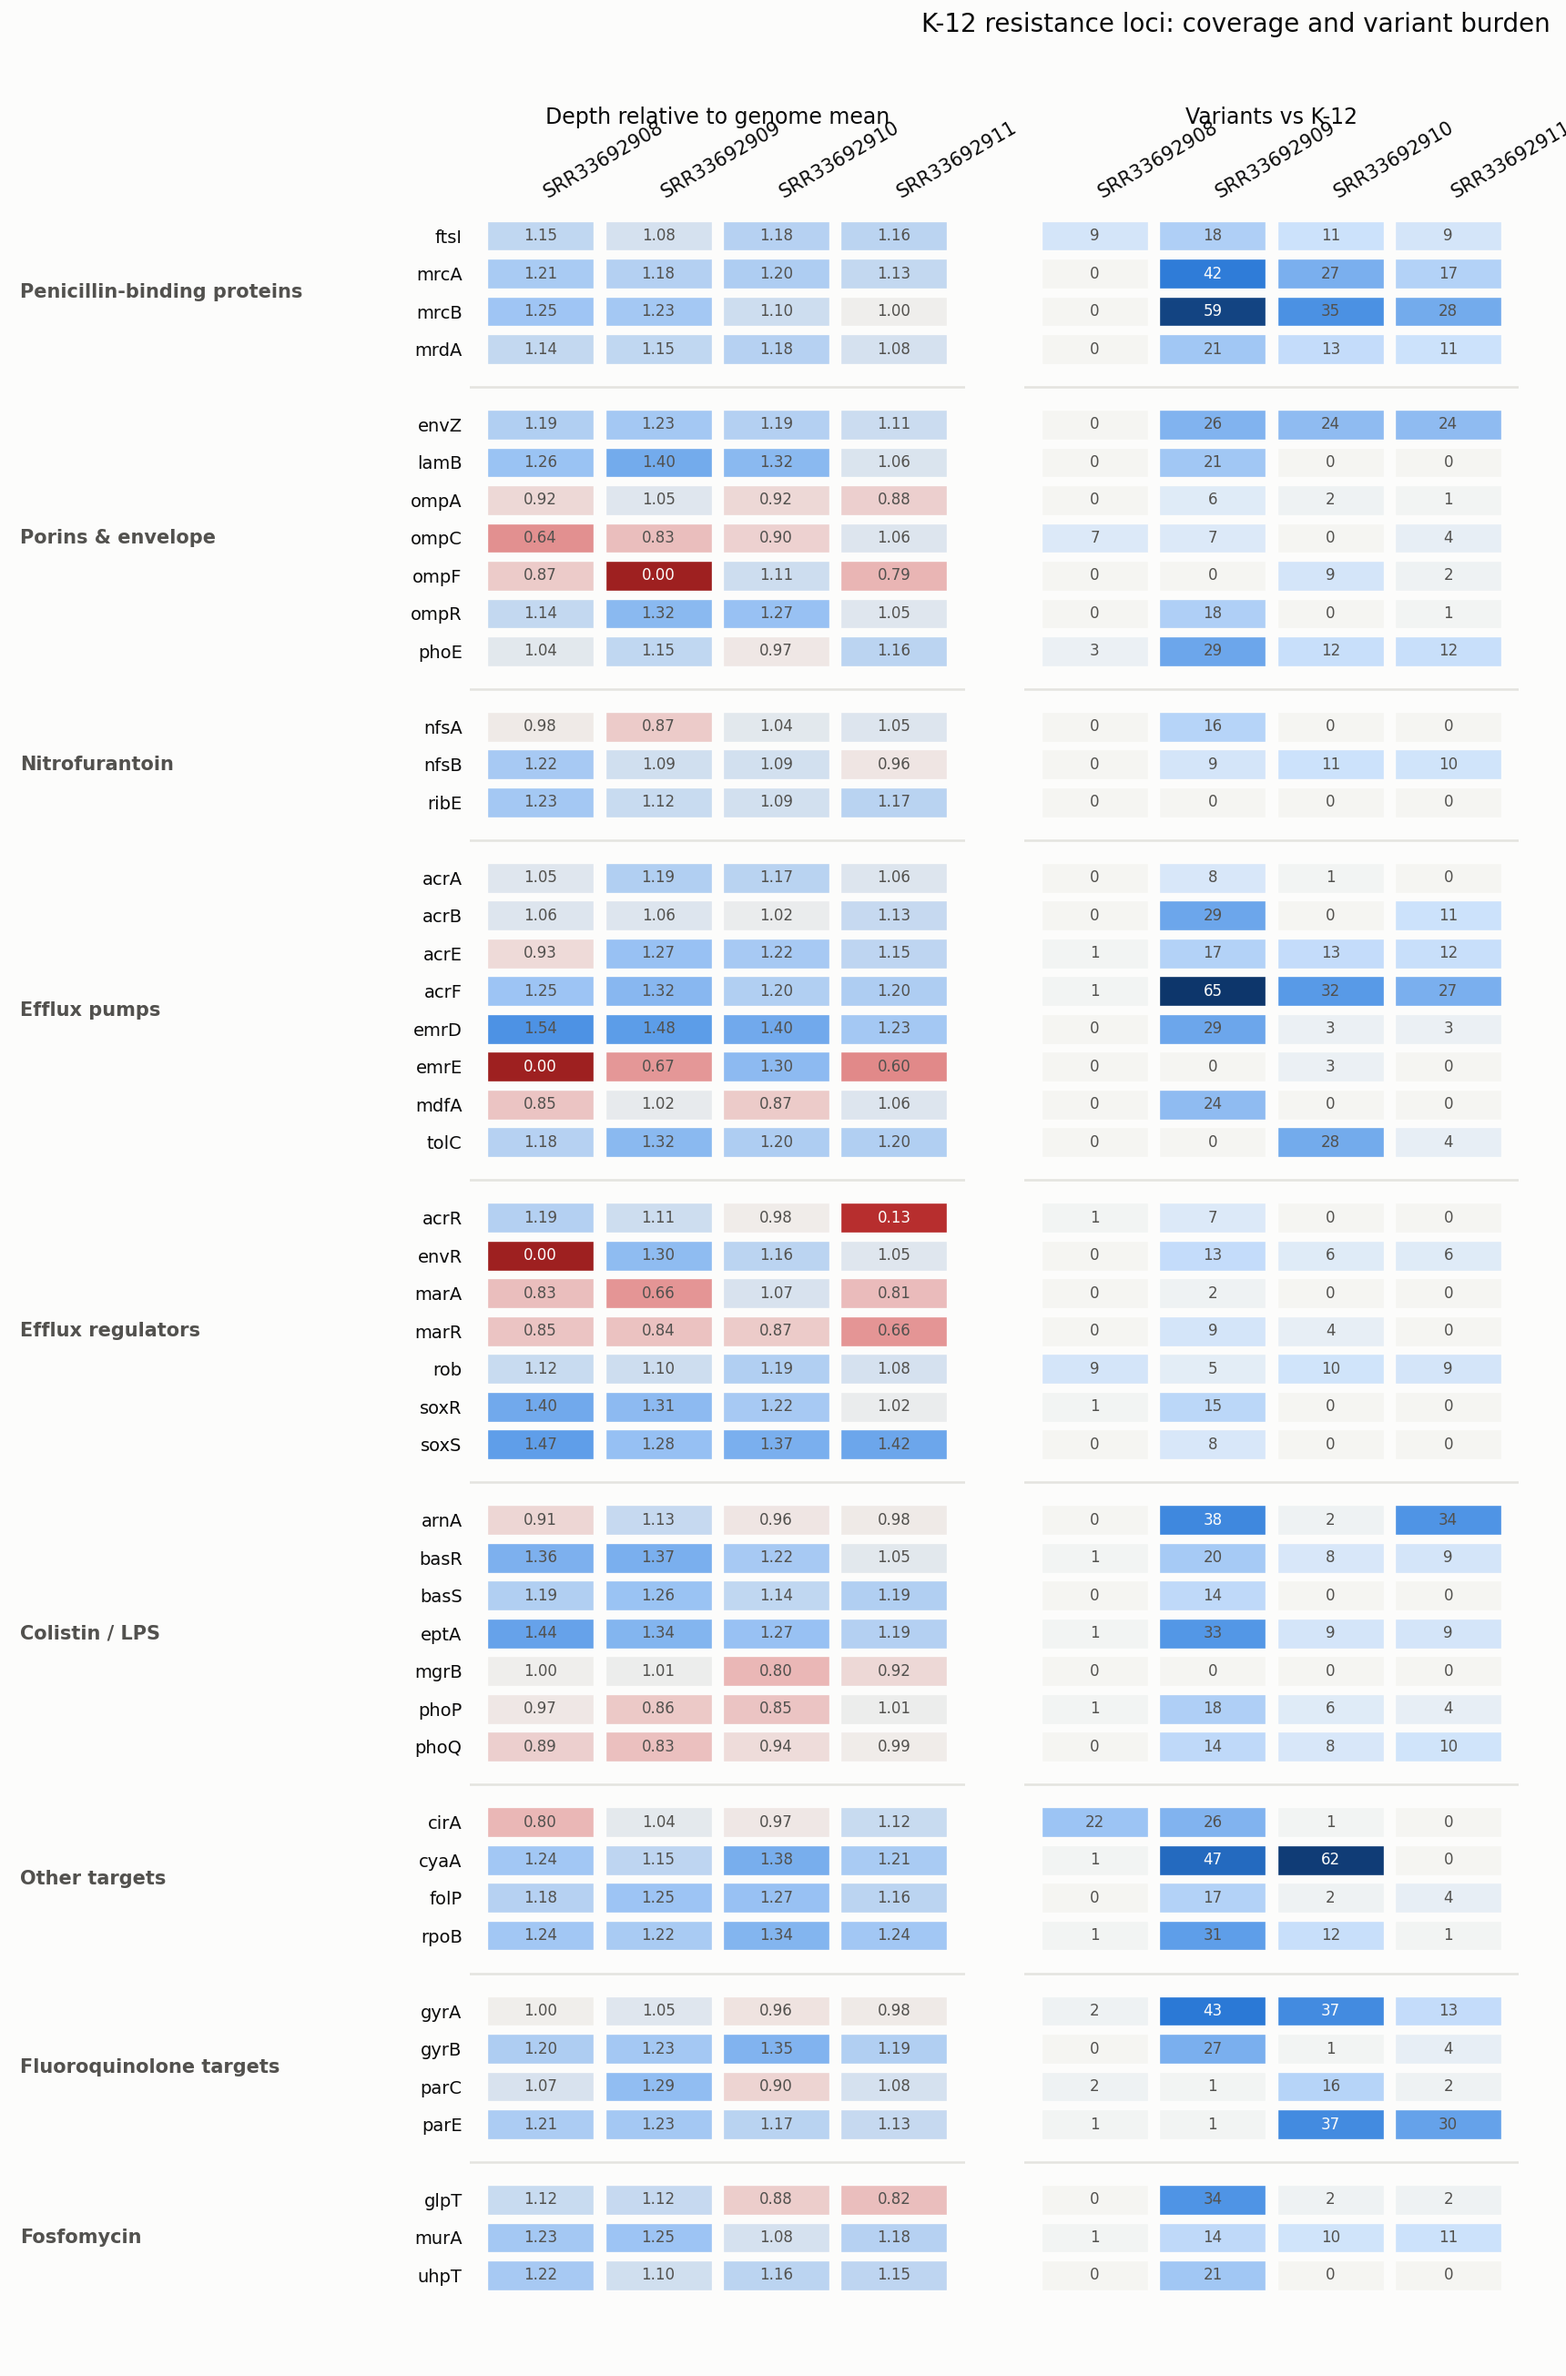
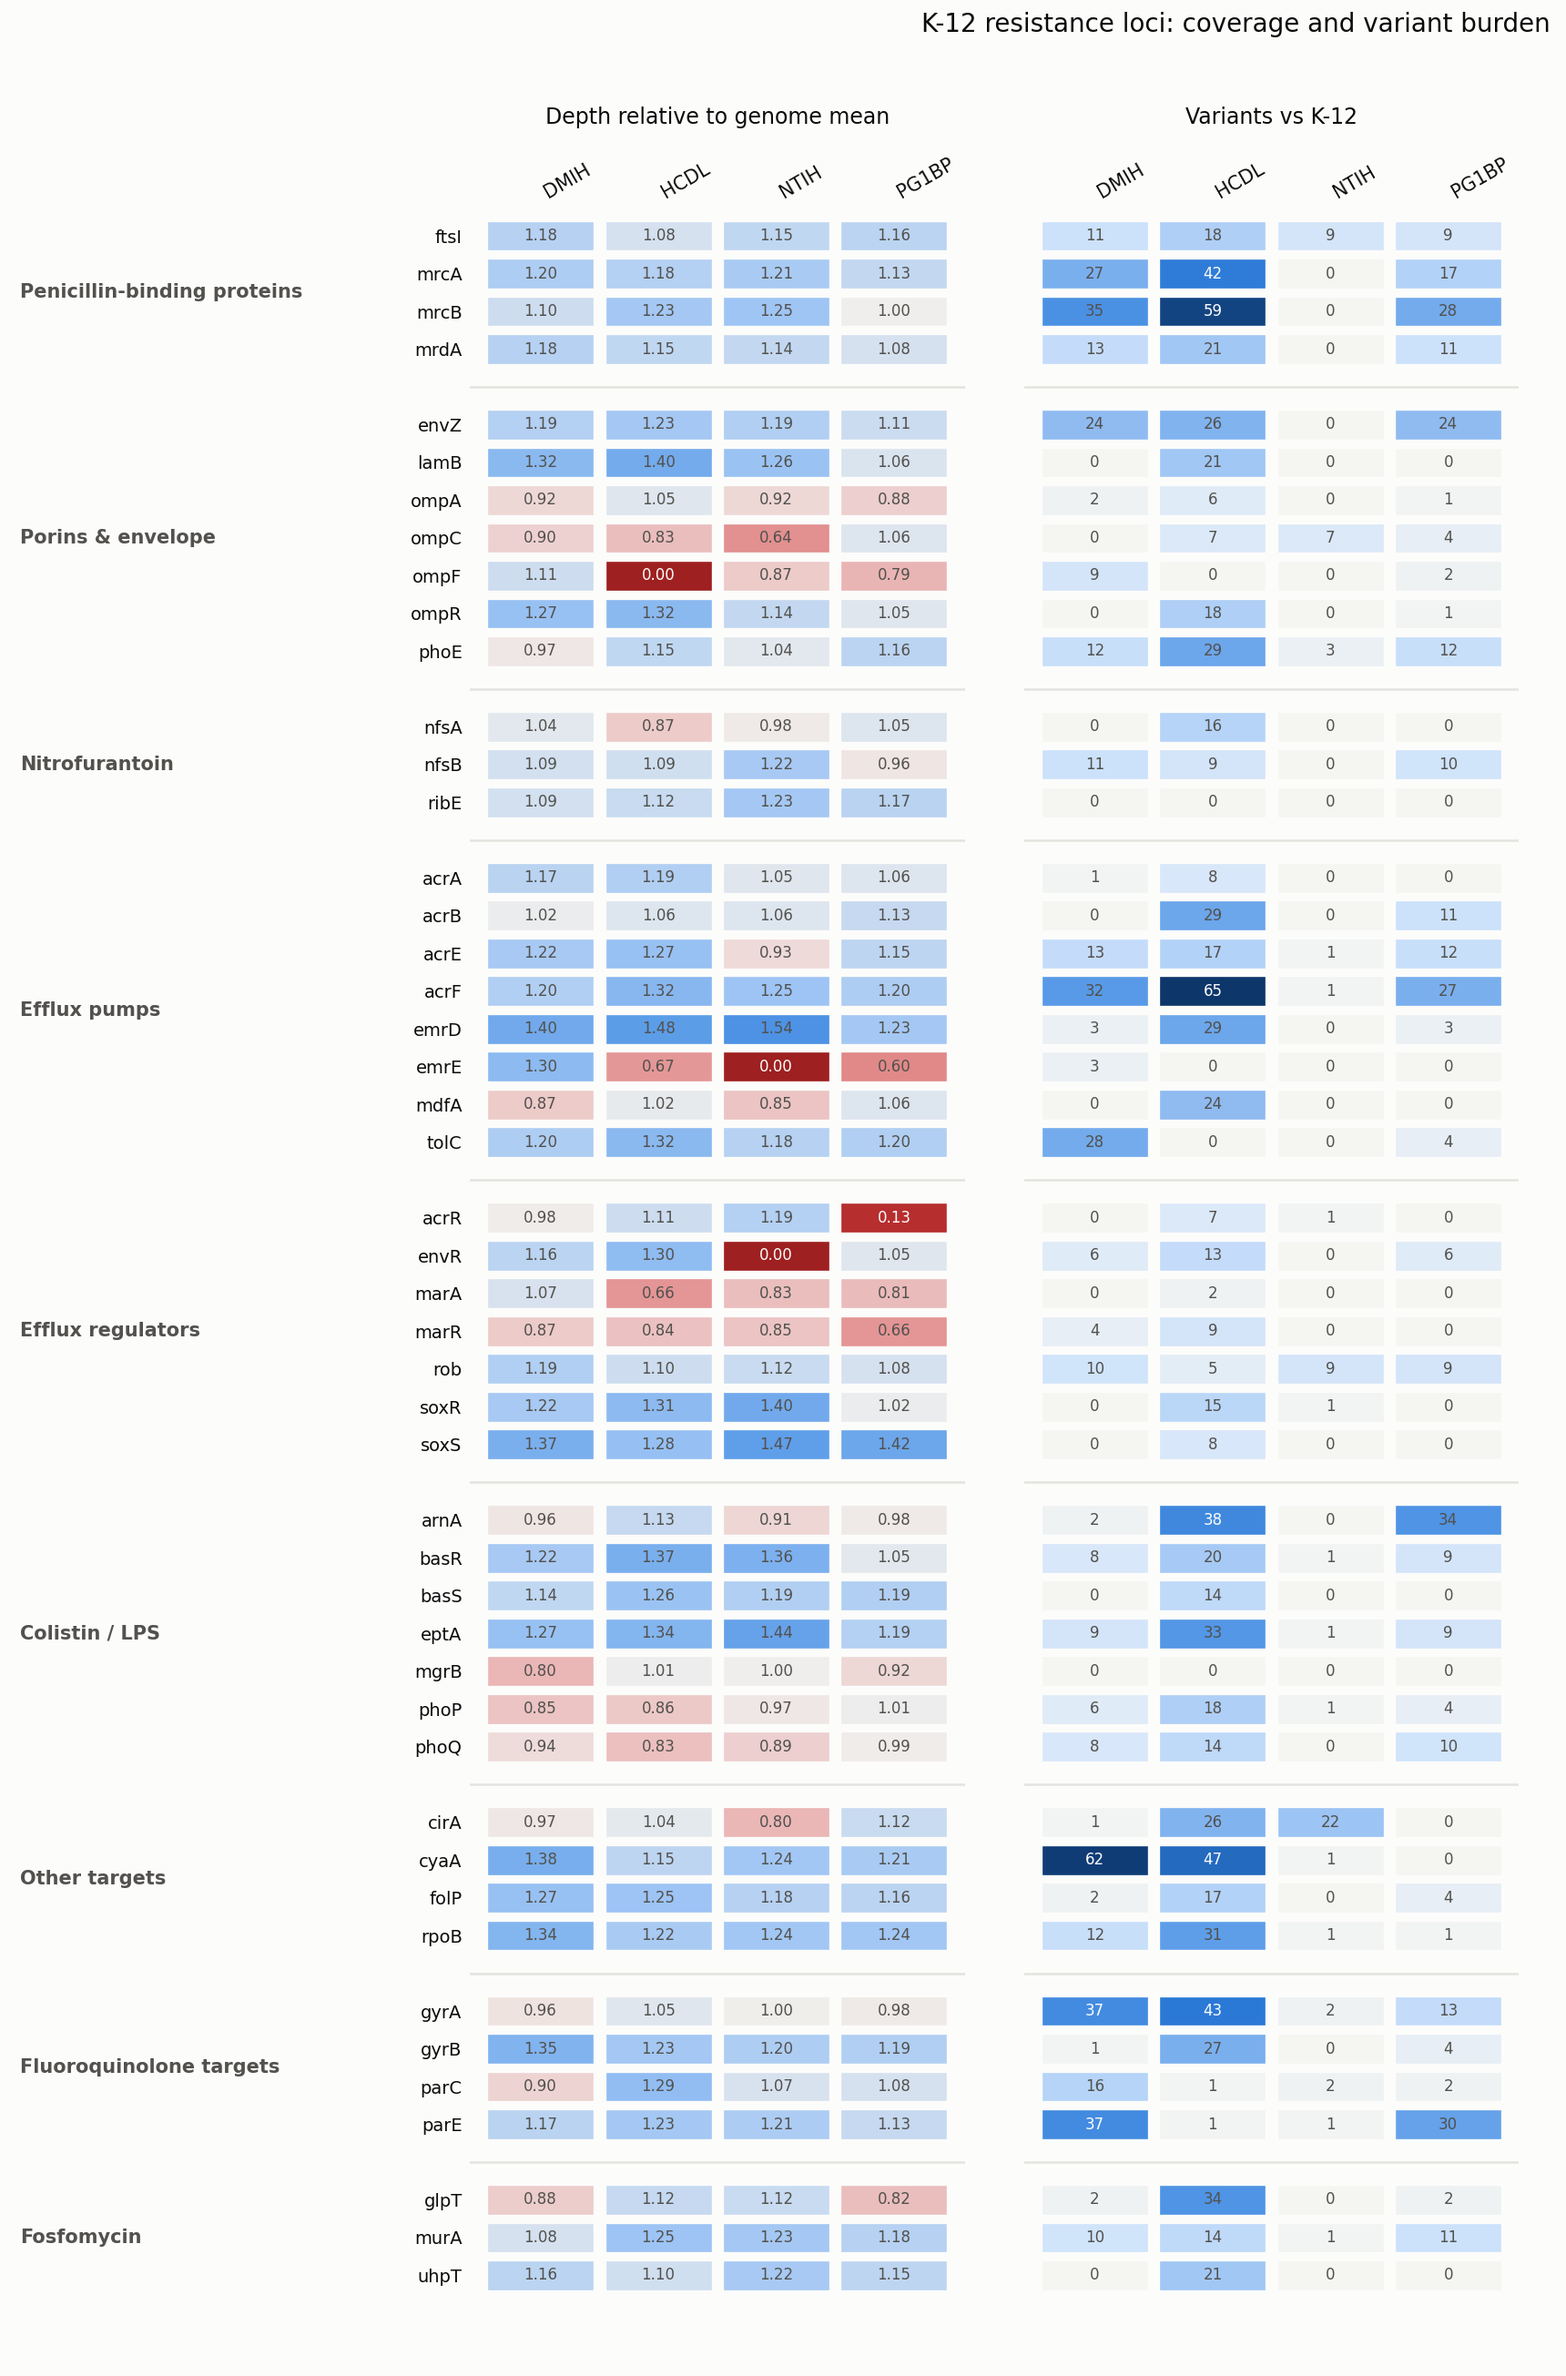
Grammar cleanup

diff --git a/README.md b/README.md
@@ -1,18 +1,20 @@
-# Comparing E.Coli Species and Identifying Antimicrobial Resistance Genes (CESAR)
+# Comparing *E. coli* Strains and Identifying Antimicrobial Resistance Genes (CESAR)
 **Kenneth Ofori-Amanfo**
 
 ## Introduction
-Antibiotics have played a cruicial role in improving health care and human longevity. However, excessive use of antibiotics have contributed to the spread of antibiotic resistance ([Baquero et al. 2021](https://pmc.ncbi.nlm.nih.gov/articles/PMC8141826/)). A relevant situation is *Escherichia coli*, which affects healthcare systems worldwide ([Walker et al. 2022](https://pubmed.ncbi.nlm.nih.gov/36551478/)). Multi-drug resistance has spread through *E. coli* populations, causing β-lactam antibiotics, fluoroquinolones, aminoglycosides, and trimethoprim-sulfamethoxazole to be less effective. Drug-resistance strains are often associated with hospital settings and can spread through wastewater systems ([Mannan et al. 2024](https://pubmed.ncbi.nlm.nih.gov/38274770/), [Męcik et al. 2024)](https://pubmed.ncbi.nlm.nih.gov/39052110/#full-view-affiliation-1)). One of the ways antimicrobial resistance (AMR) spreads are through mobile genetic elements (MGE) such as plasmids and integrative conjugative elements ([Partidge et al. 2018](https://pubmed.ncbi.nlm.nih.gov/30068738/)). Monitoring resistant bacteria and understanding antibiotic resistance mechanisms will improve AMR prevention measures and potentially identify new novel treatment methods.
+Antibiotics have played a crucial role in improving health care and human longevity. However, excessive use of antibiotics has contributed to the spread of antibiotic resistance ([Baquero et al. 2021](https://pmc.ncbi.nlm.nih.gov/articles/PMC8141826/)). A relevant situation is *Escherichia coli*, which affects healthcare systems worldwide ([Walker et al. 2022](https://pubmed.ncbi.nlm.nih.gov/36551478/)). Multi-drug resistance has spread through *E. coli* populations, causing β-lactam antibiotics, fluoroquinolones, aminoglycosides, and trimethoprim-sulfamethoxazole to be less effective. Drug-resistant strains are often associated with hospital settings and can spread through wastewater systems ([Mannan et al. 2024](https://pubmed.ncbi.nlm.nih.gov/38274770/), [Męcik et al. 2024](https://pubmed.ncbi.nlm.nih.gov/39052110/)). One of the ways antimicrobial resistance (AMR) spreads is through mobile genetic elements (MGEs) such as plasmids and integrative conjugative elements ([Partridge et al. 2018](https://pubmed.ncbi.nlm.nih.gov/30068738/)). Monitoring resistant bacteria and understanding antibiotic resistance mechanisms will improve AMR prevention measures and potentially identify novel treatment methods.
 
-[Mannan et al. 2024](https://pubmed.ncbi.nlm.nih.gov/38274770/) have previously investigated *E. coli* strains isolated from Hospital wastewater. They identified four AMR strains and profiled their genomes, including both chromosome and plasmids, using short-read sequencing and long-read sequencing. Despite their findings of AMR Genes in these bacteria strains and insightful comparisons between strains, they did not disseminate their code nor publish their long-read data. My goal was to create a workflow for widely used methods, focusing on short-read sequencing, and is publicly available. The workflow uses the same four strains that [Mannan et al. 2024](https://pubmed.ncbi.nlm.nih.gov/38274770/) used that are available via [NCBI Sequence Read Archive](https://www.ncbi.nlm.nih.gov/sra)
+[Mannan et al. 2024](https://pubmed.ncbi.nlm.nih.gov/38274770/) have previously investigated *E. coli* strains isolated from hospital wastewater. They identified four AMR strains and profiled their genomes, including both chromosome and plasmids, using short-read and long-read sequencing. Despite their findings of AMR genes in these bacterial strains and insightful comparisons between strains, they did not share their code or publish their long-read data. My goal was to create a publicly available workflow built on widely used methods, focusing on short-read sequencing. The workflow uses the same four strains as [Mannan et al. 2024](https://pubmed.ncbi.nlm.nih.gov/38274770/), which are available via the [NCBI Sequence Read Archive](https://www.ncbi.nlm.nih.gov/sra).
 
-This workflow, CESAR, allows for intial general analysis of short-read sequencing data *E. coli* species.
-![Alt text](./docs/metro_map.png)
-1) Use `FASTQC` to provide a read quality check report. Use `Trimmomatic` to filter low-quality bases and remove adapter sequences.
-2) `Bowtie2` to align reads to the *K-12 E. coli* reference.
-3) `pycirclize` to create visualizations for *K-12* comparisons and identify Resistant loci with `AMRFinderPlus`.
-4) `SPAdes` uses trimmomatic output reads to create de novo assemblies to then compare genomic similarities with `FastANI`
-5) Lastly `MOB-suite` identifies AMR and determines if they are on a plasmid
+This workflow, CESAR, allows for an initial general analysis of short-read sequencing data from *E. coli* isolates.
+
+![CESAR workflow metro map](./docs/metro_map.png)
+
+1) `FastQC` provides a read quality report, and `Trimmomatic` filters low-quality bases and removes adapter sequences.
+2) `Bowtie2` aligns the trimmed reads to the *E. coli* K-12 reference.
+3) `mosdepth` and `BCFtools` measure coverage and call variants against K-12. These are visualized with `pyCirclize` circos plots and a heatmap of known resistance loci (porins, efflux pumps, drug targets).
+4) `SPAdes` builds de novo assemblies from the trimmed reads. `QUAST` assesses assembly quality and `FastANI` compares genomic similarity between isolates.
+5) `AMRFinderPlus` identifies AMR genes in the assemblies, and `MOB-suite` determines whether each one is located on a plasmid or the chromosome.
 
 ## Main Dependencies
 The workflow uses Nextflow as its management system. Please install [Nextflow](https://www.nextflow.io/) to run the workflow.
@@ -20,7 +22,7 @@ The workflow uses Nextflow as its management system. Please install [Nextflow](h
 Required software is obtained with [Docker](https://docs.docker.com/learn/). Please also have it installed.
 
 - SRA Toolkit=3.2.1
-- FastQC= 0.12.1
+- FastQC=0.12.1
 - Trimmomatic=0.39
 - Bowtie2=2.5.2
 - SAMtools=1.18
@@ -29,16 +31,18 @@ Required software is obtained with [Docker](https://docs.docker.com/learn/). Ple
 - SPAdes=4.3.0
 - QUAST=5.3.0
 - FastANI=1.34
-- AMRFinderPlus=4.2.7 
+- AMRFinderPlus=4.2.7
 - MOB-suite=3.1.9
-- pyCirclize= 1.10.1
+- pyCirclize=1.10.1
 
 ## Compute requirements
 Based on Claude Opus 5.5 estimates
 
 Recommended requirements:
 - CPUs = 8
-- Memory = 16
+- Memory = 16 GB
+
+Each task is capped at 6 CPUs and 8 GB (`resourceLimits` in `nextflow.config`); raise these to make use of a larger machine.
 
 Minimum requirements:
 - CPUs = 2
@@ -46,13 +50,12 @@ Minimum requirements:
 
 ## Usage
 
-
-Once all dependencies are installed, you can test the workflow by following the following instructions which provides data from [Mannan et al. 2024](https://pubmed.ncbi.nlm.nih.gov/38274770/).
+Once all dependencies are installed, you can test the workflow with the instructions below, which use data from [Mannan et al. 2024](https://pubmed.ncbi.nlm.nih.gov/38274770/).
 
 **Clone repository**
 ```
 git clone https://github.com/KennethOfori/biof501project-CESAR.git
-cd biof501projects-CESAR
+cd biof501project-CESAR
 ```
 
 The reads for the four resistant *E. coli* isolates are downloaded by the pipeline itself (`DOWNLOAD_READS`) and saved to `data/reads/` as `<sample>_{1,2}.fastq.gz`:
@@ -71,24 +74,23 @@ If those files are already present, the download is skipped.
 nextflow run main.nf -profile local -w work -resume
 ```
 ## Results
-After running the pipeline you can verify that everything worked by comparing the generated output with the contents of `expected_results/`
+After running the pipeline you can verify that everything worked by comparing the generated output with the contents of `expected_results/`. The full table of AMR genes found in each isolate is in `expected_results/amrfinder_summary.tsv`.
 
 **Circos plot sample DMIH:**
 
 <img src="./expected_results/circos_plots/DMIH.circos.png" alt="DMIH circos plot" width="400">
 
-**Average Nucleotide Identify:**
+**Average Nucleotide Identity:**
 
 <img src="./expected_results/ani_heatmap.png" alt="ANI heatmap" width="400">
 
 **Resistance Loci Heatmap:**
 
-<img src="./expected_results/resistance_loci_heatmap.png" alt="ANI heatmap" width="400">
+<img src="./expected_results/resistance_loci_heatmap.png" alt="Resistance loci heatmap" width="400">
 
 **Resistance Regions, Chromosomal or Plasmid:**
 
-
-<img src="./expected_results/resistance_regions.png" alt="ANI heatmap" width="400">
+<img src="./expected_results/resistance_regions.png" alt="Resistance regions plot" width="400">
 
 ### AI Disclosure
 This workflow uses LLM tools in its development. Code development and creation of directed acyclic graph: Claude Opus 5.5.
